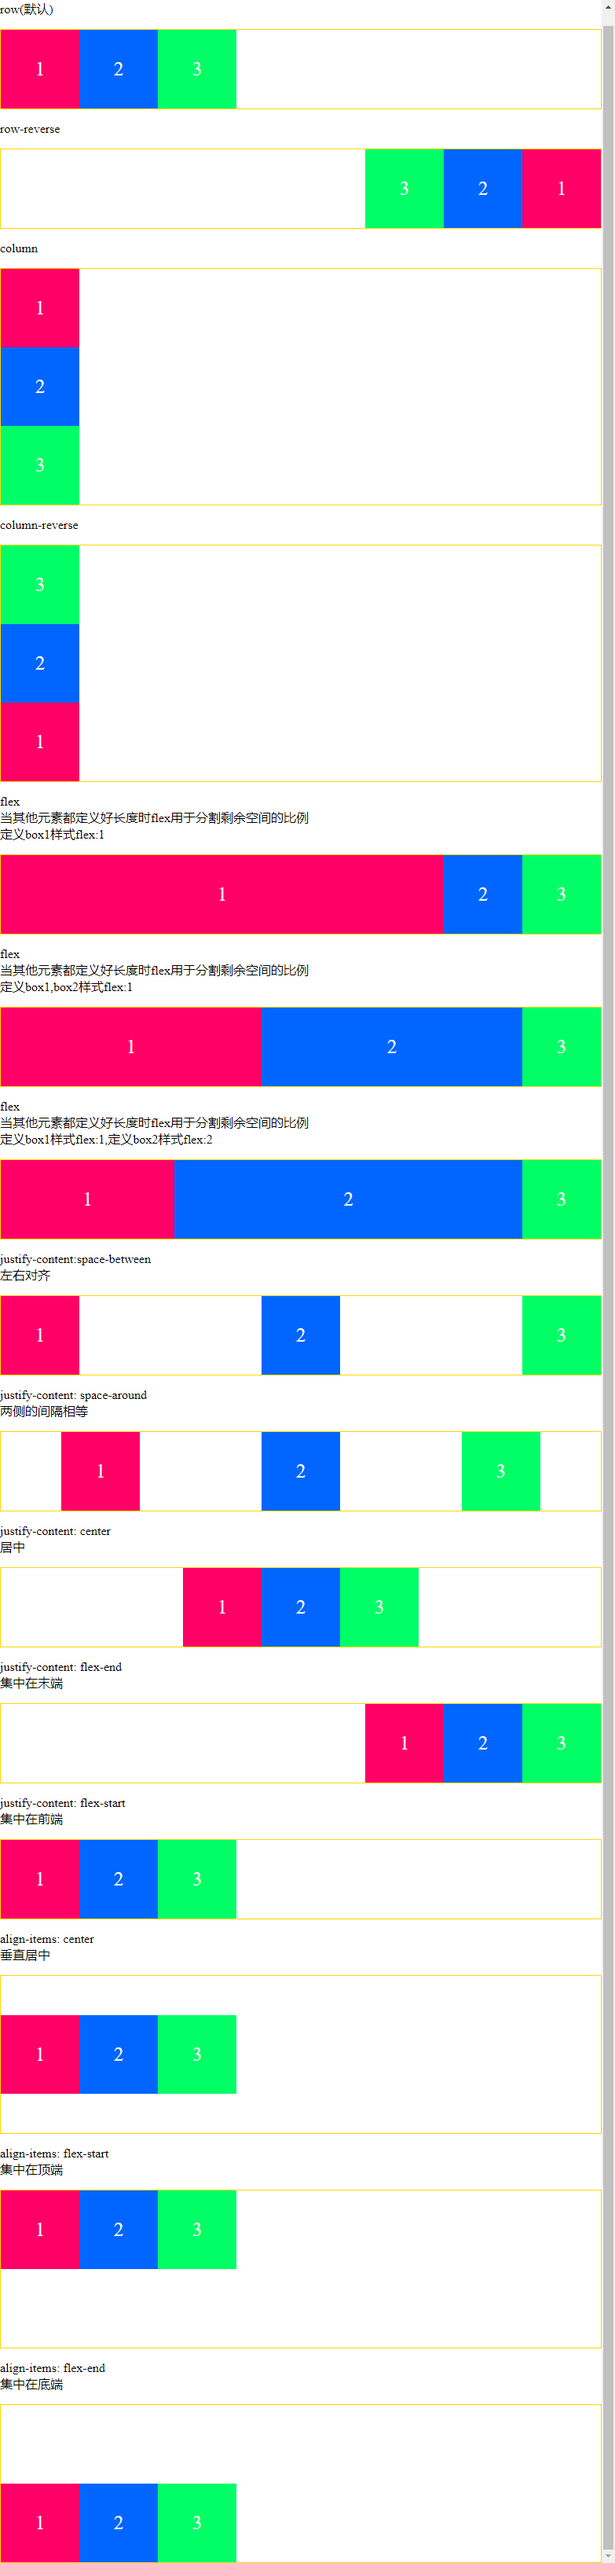
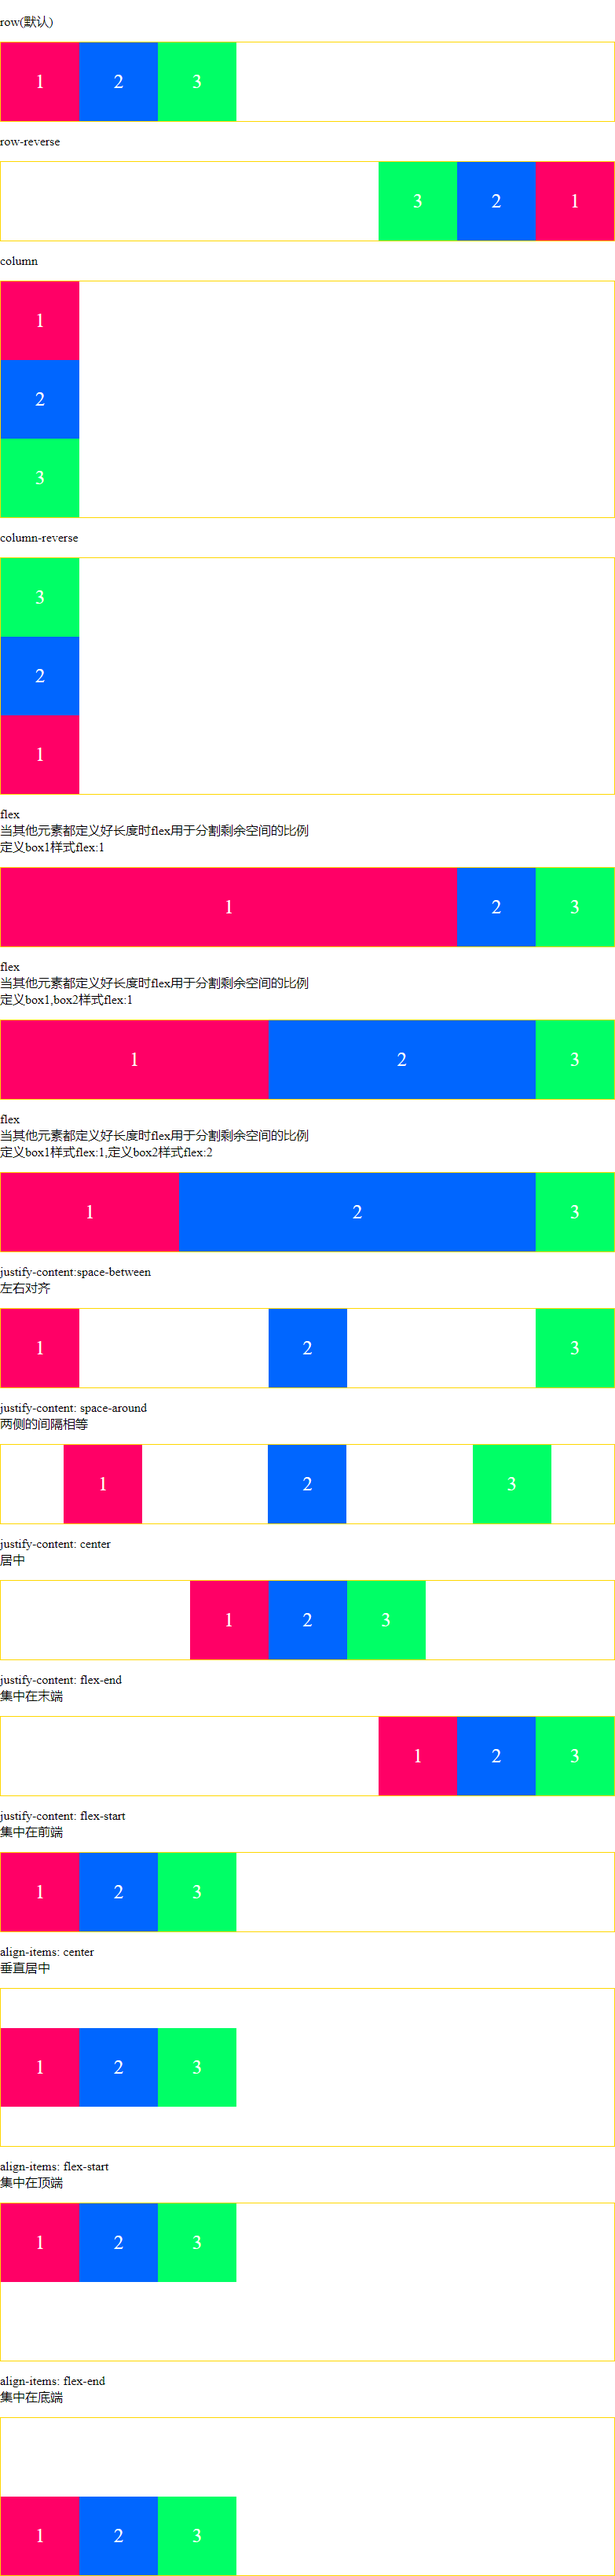
.

diff --git a/019.翻牌效果.html b/019.翻牌效果.html
@@ -31,12 +31,12 @@
         }
 
         .cover {
-            background-image: url("https://picsum.photos/300/400?random=1");
+            background-image: url("http://placekitten.com/g/300/400?random=1");
             transform: rotateY(0deg);
         }
 
         .back {
-            background-image: url("https://picsum.photos/300/400?random=2");
+            background-image: url("http://placekitten.com/g/300/400?random=2");
             transform: rotateY(180deg);
 
         }

diff --git a/008.Flex布局的使用.html b/008.Flex布局的使用.html
@@ -7,6 +7,11 @@
     <meta name="viewport" content="width=device-width, initial-scale=1.0">
     <link rel="stylesheet" href="./assets/global.css">
     <style>
+        p {
+            margin-block-start: 0em;
+            padding-top: 1em;
+        }
+
         div[class^='box'] {
             width: 100px;
             height: 100px;
